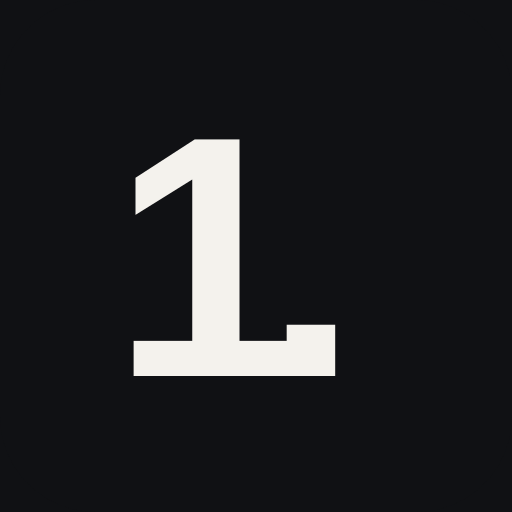
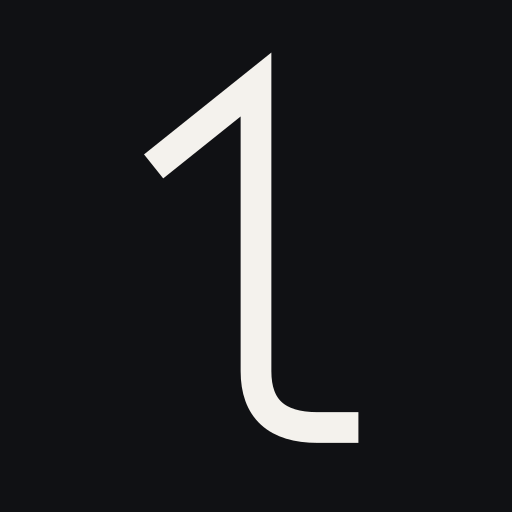
Apply approved continuous 1 and Liberation Sans minute identity

Changed region(s): [[0.25, 0.0938, 0.7188, 0.875]]

diff --git a/index.html b/index.html
@@ -10,7 +10,7 @@
 <meta property="og:image" content="https://djnaoyaman.github.io/1minutes/assets/og.png">
 <meta property="og:image:width" content="1200">
 <meta property="og:image:height" content="630">
-<meta property="og:image:alt" content="1minutes — ONE MINUTE FOREVER。60秒、12通りの時間体験。">
+<meta property="og:image:alt" content="採用ロゴ：1とminute。1minutes — 60秒、12通りの時間体験。">
 <meta name="twitter:card" content="summary_large_image">
 <meta name="twitter:title" content="1minutes — ONE MINUTE FOREVER">
 <meta name="twitter:description" content="60秒は、いつも同じ長さとは限らない。">
@@ -19,20 +19,20 @@
 <meta name="robots" content="index,follow,max-image-preview:large">
 <meta name="referrer" content="strict-origin-when-cross-origin">
 <meta property="og:image:type" content="image/png">
-<meta name="twitter:image:alt" content="1minutes — ONE MINUTE FOREVER。60秒を自分で止める12通りの時間体験。">
+<meta name="twitter:image:alt" content="採用ロゴ：1とminute。60秒を自分で止める12通りの時間体験。">
 <link rel="icon" href="./assets/favicon.ico" sizes="16x16 32x32 48x48">
 <link rel="icon" href="./assets/icon-32.png" sizes="32x32" type="image/png">
 <link rel="apple-touch-icon" href="./assets/apple-touch-icon.png" sizes="180x180">
 <link rel="mask-icon" href="./assets/safari-pinned-tab.svg" color="#101114">
 <link rel="manifest" href="./site.webmanifest">
 <meta name="apple-mobile-web-app-title" content="1minutes">
-<script type="application/ld+json">{"@context":"https://schema.org","@type":"WebApplication","name":"1minutes — ONE MINUTE FOREVER","url":"https://djnaoyaman.github.io/1minutes/","description":"時間知覚を題材にした12のインタラクティブ作品。60秒たったと感じた瞬間に自分で止め、実測時間との差を比べます。","applicationCategory":"MultimediaApplication","operatingSystem":"Any","inLanguage":"ja","isAccessibleForFree":true}</script>
+<script type="application/ld+json">{"@context":"https://schema.org","@type":"WebApplication","name":"1minutes — ONE MINUTE FOREVER","image":"https://djnaoyaman.github.io/1minutes/assets/og.png","url":"https://djnaoyaman.github.io/1minutes/","description":"時間知覚を題材にした12のインタラクティブ作品。60秒たったと感じた瞬間に自分で止め、実測時間との差を比べます。","applicationCategory":"MultimediaApplication","operatingSystem":"Any","inLanguage":"ja","isAccessibleForFree":true}</script>
 <link rel="stylesheet" href="./style.css"></head><body><a class="skip" href="#experiments">実験を選ぶ</a><div id="announcer" class="sr-only" role="status" aria-live="polite"></div>
-<header><a class="brand" href="./">1minutes.</a><span>THE MUSEUM OF SUBJECTIVE TIME</span><button id="mute" aria-pressed="false">音：オフ</button></header>
+<header><a class="brand" href="./" aria-label="1minutes ホーム"><img src="./assets/brand-reverse.svg" width="384" height="230" alt="1minute" fetchpriority="high"></a><span>THE MUSEUM OF SUBJECTIVE TIME</span><button id="mute" aria-pressed="false">音：オフ</button></header>
 <main><section class="hero"><div class="eyebrow">ONE MINUTE FOREVER / TWELVE STUDIES</div><h1 aria-label="60秒は、長いか。"><span class="hero-line"><span class="hero-number">60</span><span class="hero-muted">秒は、</span></span><span class="hero-line">長い<span class="hero-muted">か。</span></span></h1><p class="lead">時計は平等だ。体感は、そうでもない。</p><p>60秒は、いつも同じ長さとは限らない。<br>十二の部屋で、あなたの時間を採集する。</p><a class="entrance" href="#experiments">ENTER THE EXHIBITION ↓</a></section>
 <div class="sectionhead">01 — TWELVE WAYS TO SPEND ONE MINUTE</div><div class="cards" id="experiments"></div>
 <noscript><p>この作品にはJavaScriptが必要です。ブラウザで有効にして再読込してください。</p></noscript>
 <section id="panel" class="panel" aria-label="実験エリア"><div class="eyebrow">THE EXPERIMENT IS READY</div><h2>時間を、体験する。</h2><p>上の展示からひとつ選んでください。<br>60秒たったと感じたら、自分で止める。<br>途中の時計も、終了後の秒数質問もありません。</p></section>
 <section class="history" aria-labelledby="history-title"><div class="eyebrow">02 — A CABINET OF YOUR TIME</div><h2 id="history-title">あなたの時間の標本。</h2><p>十二の体験を、ひとつの基準で。</p><p class="fineprint">各実験の「停止までの実時間 − 60秒」の平均。中心が差0、左が60秒より早く止めた記録、右が遅く止めた記録です。点の範囲は±60秒まで。範囲外も数値は省略しません。未体験と差0は区別します。</p><div id="compare-grid" aria-label="12実験の停止時間比較"></div><p class="fineprint">順序、慣れ、音や動きの設定は統制していません。差から原因や性格は判断できません。旧方式の記録は比較に含めません。</p><p id="history-empty">最初の60秒を、ここに。</p><ol id="history-list"></ol><p class="fineprint">このブラウザに最大240件保存、直近24件を表示。別の端末には同期しません。記録はサーバーへ送信しません。</p><button id="clear-history" class="secondary" hidden>記録をすべて削除</button></section>
 <section class="info"><div class="eyebrow">03 — NOTES FROM THE LABORATORY</div><h2>これは診断ではなく、問いです。</h2><p>時間知覚には注意、感情、記憶、期待が関わります。ただし、研究で得られた効果と、この作品で感じることは同じとは限りません。</p><p>全実験で、60秒たったと感じた瞬間に自分で止めます。これは目標の時間間隔を作る「時間産出」の形式です。終了後に秒数を見積もる判断や、時間が速く過ぎた感覚とは別の尺度です。時間への注意や数え方も結果に影響します。</p><p class="fineprint">実時間は単調増加時計で、開始から停止操作を受け取るまで計測します。実時間60秒での自動終了はありません。結果に実測値を併記します。画面切替・スリープ・1.5秒を超える遅延を検出した回は中断し、保存しません。視覚表現や音が負担なら中断してください。端末の「動きを減らす」設定に対応します。</p><p id="science-load">参考資料を読み込んでいます。</p><div id="science-entries"></div></section>
-</main><footer>1minutes — ONE MINUTE FOREVER<br><span>YOUR TIME IS YOURS. / NO DIAGNOSIS. NO SCOREBOARD.</span></footer><script type="module" src="./app.js"></script></body></html>
+</main><footer><img class="footer-brand" src="./assets/brand-reverse.svg" width="384" height="230" alt="" loading="lazy">1minutes — ONE MINUTE FOREVER<br><span>YOUR TIME IS YOURS. / NO DIAGNOSIS. NO SCOREBOARD.</span></footer><script type="module" src="./app.js"></script></body></html>

diff --git a/tests/brand.test.js b/tests/brand.test.js
@@ -1,0 +1,24 @@
+import test from 'node:test';
+import assert from 'node:assert/strict';
+import {readFileSync} from 'node:fs';
+const read=p=>readFileSync(new URL('../'+p,import.meta.url),'utf8');
+const mark='M12 45 52 13V125Q52 147 76 147H92';
+test('approved continuous symbol and outlined lettering are used without remote fonts',()=>{
+ for(const file of ['assets/brand-normal.svg','assets/brand-reverse.svg']){
+  const svg=read(file);assert.ok(svg.includes(mark));assert.doesNotMatch(svg,/<text\b|font-family|https?:\/\/(?!www\.w3\.org)/);
+  assert.ok((svg.match(/<path\b/g)||[]).length>=7);
+ }
+ const html=read('index.html');assert.match(html,/class="brand"[^>]*aria-label="1minutes ホーム"/);
+ assert.match(html,/src="\.\/assets\/brand-reverse.svg"/);
+ assert.doesNotMatch(html,/fonts\.googleapis|1minutes\.<\/a>/);
+ const schema=JSON.parse(html.match(/<script type="application\/ld\+json">([\s\S]*?)<\/script>/)[1]);
+ assert.equal(schema.name,'1minutes — ONE MINUTE FOREVER');
+ assert.equal(schema.image,'https://djnaoyaman.github.io/1minutes/assets/og.png');
+});
+test('share and install artwork use the approved mark and expected dimensions',()=>{
+ for(const file of ['assets/favicon.svg','assets/safari-pinned-tab.svg','assets/og.svg']) assert.ok(read(file).includes(mark));
+ for(const [file,w,h] of [['assets/og.png',1200,630],['assets/apple-touch-icon.png',180,180],['assets/icon-16.png',16,16],['assets/icon-32.png',32,32],['assets/icon-48.png',48,48]]){
+  const b=readFileSync(new URL('../'+file,import.meta.url));assert.equal(b.readUInt32BE(16),w);assert.equal(b.readUInt32BE(20),h);
+ }
+ assert.match(read('assets/brand-font-license.txt'),/SIL-OFL-1\.1/);
+});

diff --git a/tests/public-check.test.js b/tests/public-check.test.js
@@ -1,0 +1,16 @@
+import test from 'node:test';
+import assert from 'node:assert/strict';
+import {verifyPublic,MIN_REQUEST_GAP_MS} from '../scripts/wait-public.mjs';
+const bytes=Buffer.from('exact asset');
+const response=(status=200,value=bytes)=>({status,ok:status===200,arrayBuffer:async()=>value});
+test('public deployment checks are sequential with a minimum 65-second start gap',async()=>{
+ let clock=0,active=0,maxActive=0;const starts=[];
+ await verifyPublic({files:['a','b','c'],read:async()=>bytes,now:()=>clock,sleep:async ms=>{clock+=ms;},log:()=>{},fetchFn:async()=>{starts.push(clock);active++;maxActive=Math.max(active,maxActive);clock+=120;active--;return response();}});
+ assert.equal(maxActive,1);assert.equal(MIN_REQUEST_GAP_MS,65000);assert.deepEqual(starts,[0,65000,130000]);
+});
+test('explicit public access denial stops immediately without retry',async()=>{
+ let requests=0;await assert.rejects(verifyPublic({files:['a','b'],read:async()=>bytes,now:()=>0,sleep:async()=>{},log:()=>{},fetchFn:async()=>{requests++;return response(403);}}),/denied/);assert.equal(requests,1);
+});
+test('deployment propagation mismatch retries only after the full request gap',async()=>{
+ let clock=0;const starts=[];await verifyPublic({files:['a'],read:async()=>bytes,now:()=>clock,sleep:async ms=>{clock+=ms;},log:()=>{},fetchFn:async()=>{starts.push(clock);return starts.length===1?response(200,Buffer.from('old')):response();}});assert.deepEqual(starts,[0,65000]);
+});

diff --git a/tests/browser.spec.js b/tests/browser.spec.js
@@ -31,6 +31,12 @@ for (const width of [320, 390, 768, 1280]) {
   await page.setViewportSize({width, height: 900});
   await page.emulateMedia({reducedMotion: 'reduce'});
   await page.goto('./');
+  await expect(page.locator('.brand img')).toBeVisible();
+  await expect(page.locator('.brand')).toHaveAttribute('aria-label','1minutes ホーム');
+  await expect.poll(() => page.locator('.brand img').evaluate(i => i.complete && i.naturalWidth > 0)).toBeTruthy();
+  const brandBox = await page.locator('.brand').boundingBox();
+  expect(brandBox.x).toBeGreaterThanOrEqual(0);
+  expect(brandBox.x + brandBox.width).toBeLessThanOrEqual(width);
   await expect(page.locator('.card-icon svg')).toHaveCount(12);
   await expect(page.locator('.card .arrow svg')).toHaveCount(12);
   await expect(page.getByRole('heading', {name: '60秒は、長いか。', exact: true})).toBeVisible();

diff --git a/style.css b/style.css
@@ -22,3 +22,9 @@
 .hero h1 .hero-number{letter-spacing:-.055em;color:inherit;margin-right:.045em}
 .hero h1 .hero-muted{color:#777}
 @media(max-width:700px){.hero{padding:56px 0 64px}.hero h1{font-size:clamp(58px,14.5vw,100px);line-height:1.28;margin-bottom:30px}.hero .eyebrow{letter-spacing:.13em;margin-bottom:24px}}
+
+/* Approved 05 CONTINUOUS symbol + Liberation Sans minute, as outlined artwork. */
+.brand{display:inline-flex;flex:none;line-height:1;letter-spacing:normal}
+.brand img{display:block;width:132px;height:auto}
+.footer-brand{display:block;width:112px;height:auto;margin:0 auto 24px}
+@media(max-width:700px){.brand img{width:112px}header{padding-top:16px;padding-bottom:16px}}

diff --git a/README.md b/README.md
@@ -27,7 +27,7 @@ npx playwright install chromium
 npm run test:browser
 ```
 
-Browser tests cover all12 real beyond60-second user-stop full lifecycles and all12 controlled early stops on desktop/mobile, plus controlled-clock boundary/interruption/reload/repeat/storage/mute/migration/narrow-layout cases. `TEST_BASE_URL` runs the same suite against a deployed host (use trailing base path). No local user data or external submissions are involved. Screenshots and traces are retained as CI artifacts.
+Browser tests cover all12 real beyond60-second user-stop full lifecycles and all12 controlled early stops on desktop/mobile, plus controlled-clock boundary/interruption/reload/repeat/storage/mute/migration/narrow-layout cases. The full Playwright suite runs against the checked-out site on localhost in CI, including screenshots at 320, 390, 768 and 1280px. Production verification separately compares exact asset bytes with sequential public requests at least 65 seconds apart; it does not rerun the browser suite against production. No local user data or external submissions are involved. Screenshots and traces are retained as CI artifacts.
 
 ## Deployment
 GitHub Pages serves main/root at https://djnaoyaman.github.io/1minutes/ . Publication must follow passing tests and remote main/deployment verification. The GitHub Actions test workflow has read-only repository permissions.
@@ -35,4 +35,11 @@ GitHub Pages serves main/root at https://djnaoyaman.github.io/1minutes/ . Public
 Initial source was the owner's1minutes.zip; this expansion preserves its monochrome exhibition identity.
 
 ## Launch Package foundation
-Canonical, sharing metadata and JSON-LD describe the existing twelve user-stopped experiences. Sitemap indexes only the public exhibition, not private local results or the404 page. `robots.txt` inside this project is informational: crawler rules belong to the host-root robots.txt, which this change does not modify. Icons reuse the existing monochrome1. mark, with opaque Apple/Android artwork and separate maskable safe-area variants. No GA, advertising, service worker or experiment logic is added. `llms.txt` is a supplementary guide, not an indexing guarantee.
+Canonical, sharing metadata and JSON-LD describe the existing twelve user-stopped experiences. Sitemap indexes only the public exhibition, not private local results or the404 page. `robots.txt` inside this project is informational: crawler rules belong to the host-root robots.txt, which this change does not modify. Icons use the approved CONTINUOUS 1 mark, with opaque Apple/Android artwork and separate maskable safe-area variants. No GA, advertising, service worker or experiment logic is added. `llms.txt` is a supplementary guide, not an indexing guarantee.
+
+## Approved identity and mobile typography
+The owner selected the CONTINUOUS 1 symbol and font option 03 (Liberation Sans Regular) for the logo word `minute`. Header/footer and share artwork use outlined SVG paths; no font download is required. The website name, canonical URL and storage keys remain `1minutes` (logo wording is not a site rename). Font license: `assets/brand-font-license.txt`.
+
+Exhibition-card symbols and arrows are SVG geometry rather than Unicode pictographs, so mobile emoji fonts cannot replace them. Hero lines retain the wording but use separate Japanese spacing and explicit two-line layout. Measurement, twelve experiments and stored results are unchanged.
+
+Public verification logs every request timestamp, stops without retry on 401/403, and fails if the deployment does not match within a bounded 20-minute / 18-request window. Deployment publication is coordinated with the shared public-request window; localhost tests do not consume it. The public check covers the seven experiment runtime/data files plus icons.js, approved header artwork, favicon SVG, OG PNG, and Apple touch icon.
